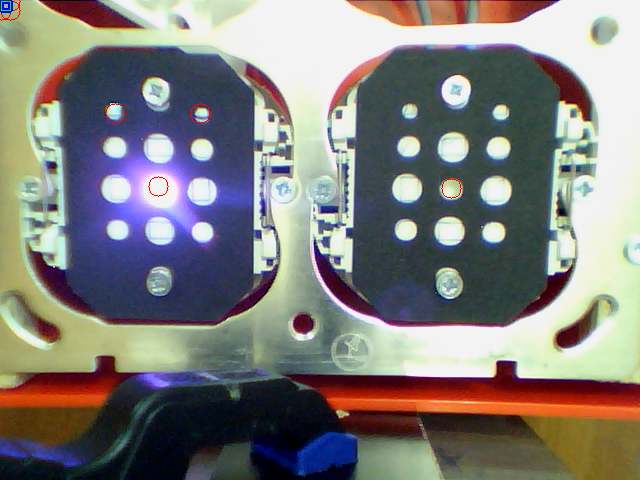
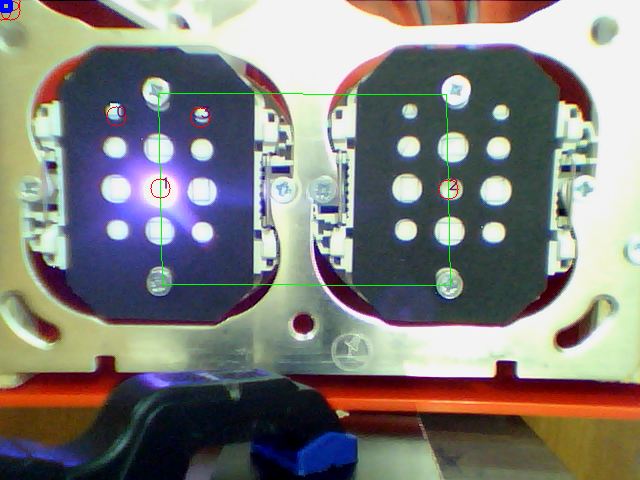
ToDo preperation

diff --git a/PY_Samples/Cam/Get_Cam_Window_V4.py b/PY_Samples/Cam/Get_Cam_Window_V4.py
@@ -11,6 +11,14 @@
 # pip install opencv-python
 # pip install numpy
 #-------------------------------------------------------------------------------
+# TODO (search label)
+# LABEL20220826_00 :  nDimCroshair=10   #LED_TRANS_WORLD[i][3] # size of circles is not scaled
+# LABEL20220826_01 :  Make seperate module for EXPORTING, make test module
+# LABEL20220826_02 :TODO code must be moved to anotiations module
+# LABEL20220826_03 :TODO export to SQLITE
+#
+#-------------------------------------------------------------------------------
+
 def main():
     pass
 
@@ -24,11 +32,14 @@ import sys
 import os
 import datetime
 import schedule
+import subprocess
 
+#--CAX Modules (My modules)
+from selectproject import DialogProjectChoice
 import cam_annotate
 import cam_menu
-import subprocess
-from selectproject import DialogProjectChoice
+import Transformations
+# from module_transformations import transformation # used in Transformations
 ##=============================================================================
 def GetImageDimensions(image):
 
@@ -147,7 +158,8 @@ def job():
     print("=================================================================")
     print("===Schedule Event=====Seconds:" ,nSec)
     print("=================================================================")
-    nDataQue = LED_Export(grey_img,LED_TRANS_WORLD,sPathfile_LED_EXPORT,nDataQue)
+    nDataQue = ExtractPOIs(grey_img,LED_TRANS_WORLD,nDataQue)
+    ExportPOIMeasurements(sPathfile_LED_EXPORT,nDataQue)
     print("=================================================================")
 # run the function job() every 2 seconds
 
@@ -155,9 +167,7 @@ schedule.every(nSec).seconds.do(job)
 
 #===============================================================================
 
-
-
-def LED_Export(img,LED_CAMERA,sPathfile_LED_Export,nDataQueLocal):
+def ExtractPOIs(img,LED_CAMERA,nDataQueLocal):
 
     #get current date and time
     dt = datetime.datetime.now()
@@ -165,8 +175,8 @@ def LED_Export(img,LED_CAMERA,sPathfile_LED_Export,nDataQueLocal):
     dateTimeStr = str(dt)
     sDateTime=dt.strftime('%Y_%m_%d_%H_%M_%S')
     sn_DateTime=dt.strftime('%Y%m%d%H%M%S')
-    sn_YM=dt.strftime('%Y%m')
-    sn_DHMS=dt.strftime('%d%H%M%S')
+    sn_YM=dt.strftime('%Y%m%d')
+    sn_DHMS=dt.strftime('%H%M%S')
     ##-------------------------------------------
     ## time strings convert to integers
     nYear=int(sn_YM)
@@ -242,6 +252,17 @@ def LED_Export(img,LED_CAMERA,sPathfile_LED_Export,nDataQueLocal):
         if len(nDataQueLocal)>len(l_LED_CAMERA)*10: # ensure all LED read not cut off
             nDataQueLocal.pop(-1)  # -1 default
 
+    return nDataQueLocal
+
+# LABEL20220826_01
+def ExportPOIMeasurements(sPathfile_LED_EXPORT,nDataQueLocal):
+    print("===EXPORT==MEASUREMENTS=TO=DELIMITED FILE=====================")
+
+    #get current date and time
+    dt = datetime.datetime.now()
+    #convert date and time to string
+    dateTimeStr = str(dt)
+    sDateTime=dt.strftime('%Y_%m_%d_%H_%M_%S')
 
     file=open(sPathfile_LED_EXPORT,'w')
 
@@ -257,10 +278,9 @@ def LED_Export(img,LED_CAMERA,sPathfile_LED_Export,nDataQueLocal):
             j=j+1
         file.writelines(sLine+'\n')
     file.close()
+
     print("--SAVED TO-------------------------------------------------")
     print(sPathfile_LED_EXPORT)
-
-    return nDataQueLocal
 
 #==============================================================================
 # Global Points
@@ -370,6 +390,8 @@ if image_source==1 :
 if image_source==2 :
     # FILE
     cap = cv2.VideoCapture(sPathfile_VideoSubstituteImage)
+
+
 #------------------------------------------------------------------------------
 # Get Image with  ?filter?
 
@@ -383,6 +405,8 @@ try:
         grey_img = cv2.cvtColor(frame, cv2.IMREAD_COLOR)
 except:
         grey_img = cv2.imread(sPathfile_VideoSubstituteImage)
+
+
 
 #------------------------------------------------------------------------------
 # Get Image dimensions
@@ -414,6 +438,7 @@ while(True):
     grey_img_2 = grey_img.copy()
     grey_img=menu.draw(cv2,grey_img)
 ##=============================================================================
+# LABEL20220826_02
 # TODO code must be moved to anotiations module
 #MountingFrame_CAMERA = [['TL', 358, 352], ['BL', 266, 248], ['BR', 446, 155], ['TR', 410, 114]]  #BGR
     for PTS,i in zip(MountingFrame_CAMERA,[0,1,2,3]):  # zip uses shortes of two lists
@@ -437,9 +462,18 @@ while(True):
             cv2.line(img= grey_img_2, pt1=(int(PTS[1]), int(PTS[2])), pt2=(int(PTS_Start[1]), int(PTS_Start[2])), color=(0, 255, 0), thickness=1, lineType=8, shift=0)
 
     for PTS,i in zip(LED_TRANS_WORLD,range(0,len(LED_TRANS_WORLD))):  # zip uses shortes of two lists
-        nDimCroshair=10   #LED_TRANS_WORLD[i][3]
+        nDimCroshair=10   #LED_TRANS_WORLD[i][3]   #LABEL20220826_00
         nCircle=1
-        cv2.circle(grey_img_2,(int(LED_TRANS_WORLD[i][1]),int(LED_TRANS_WORLD[i][2])), nDimCroshair, (0,0,255),nCircle)
+        CircleX=int(LED_TRANS_WORLD[i][1])
+        CircleY=int(LED_TRANS_WORLD[i][2])
+        cv2.circle(grey_img_2,(CircleX,CircleY), nDimCroshair, (0,0,255),nCircle)
+
+        org=(CircleX-nDimCroshair,CircleY+nDimCroshair) # bottom left of circle
+        color = (100, 0, 100) # Blue color in BGR
+        thickness = 1 # Line thickness of 2 px
+        font = cv2.FONT_HERSHEY_SIMPLEX # font
+        fontScale = 0.5 # fontScale
+        cv2.putText(grey_img_2, str(i), org, font, fontScale, color, thickness, cv2.LINE_AA)
 
 ##=============================================================================
 ##    sCMD=menu.command(cv2,grey_img,Xmenu,Ymenu)  # do not draw image in begin
@@ -561,16 +595,13 @@ while(True):
         print('LED:',LED_TRANS_WORLD[0])
 ##        print('crop:',cX1,cY1, cX2,cY2)
         print('watch Toggle status:', menu.getToggleStatus('watch'))
-
         cam_menu.cam_menu.aCMD[0]="DONE"
 
-
-
     if menu.getToggleStatus('watch')=='1':
-##        print('====LOG IMAGE==============================================')
-##        print('')
+#        print('====LOG IMAGE==============================================')
+#        print('')
         schedule.run_pending()
-##        LED_Export(grey_img,LED_TRANS_WORLD,sPathfile_LED_EXPORT)
+#        LED_Export(grey_img,LED_TRANS_WORLD,sPathfile_LED_EXPORT)
 
 
 
@@ -637,6 +668,7 @@ while(True):
 # IMAGE SHOW
     img_3 = np.concatenate((grey_img, grey_img_2), axis=1)
     cv2.imshow('frame',img_3)
+    cv2.setWindowTitle('frame', sPrefix)
     cv2.setMouseCallback('frame', mousePoints)
 
 ##=============================================================================

diff --git a/PY_Samples/Cam/cam_export_poi.py b/PY_Samples/Cam/cam_export_poi.py
@@ -1,0 +1,123 @@
+#-------------------------------------------------------------------------------
+# Name:        cam_export_poi.py
+# Purpose:
+#
+# Author:      SESA237770
+#
+# Created:     01.07.2022
+# Copyright:   (c) SESA237770 2022
+# Licence:     <your licence>
+#-------------------------------------------------------------------------------
+
+##=============================================================================
+import numpy as np
+import csv
+import os
+import datetime
+##=============================================================================
+def ExportPOIMeasurements(sPathfile_LED_EXPORT,nDataQueLocal):
+    print("===EXPORT==MEASUREMENTS=TO=DELIMITED FILE=====================")
+
+    #get current date and time
+    dt = datetime.datetime.now()
+    #convert date and time to string
+    dateTimeStr = str(dt)
+    sDateTime=dt.strftime('%Y_%m_%d_%H_%M_%S')
+
+    file=open(sPathfile_LED_EXPORT,'w')
+
+    for List_items in nDataQueLocal:
+        sLine=''
+        j=0
+        for integer_items in List_items:
+
+            if j==0:
+                sLine=sDateTime + '\t' + str(integer_items)
+            else:
+                sLine= sLine + '\t' + str(integer_items)
+            j=j+1
+        file.writelines(sLine+'\n')
+    file.close()
+
+    print("--SAVED TO-------------------------------------------------")
+    print(sPathfile_LED_EXPORT)
+##=============================================================================
+##=============================================================================
+##=============================================================================
+def main(sPrefix_in):
+##        user = os.getlogin()
+##        if user=='SESA237770':
+##            sPrefix='MPA\\'
+##        else: sPrefix='OJS\\'
+
+
+        # Choose WORKSPACE"
+        sPrefix=sPrefix_in
+
+
+        print('')
+        print('==============================================================')
+        print('=============')
+        print('=============')
+        print('==============================================================')
+        print('')
+
+
+
+##=============================================================================
+##=============================================================================
+
+if __name__ == '__main__':
+
+    sPathfile_LED_EXPORT='garbage\\export.dat'
+
+    lData=[[3, 20220826, 94902, 186, 147, 131],
+             [2, 20220826, 94902, 243, 243, 243],
+             [1, 20220826, 94902, 247, 233, 244],
+             [0, 20220826, 94902, 132, 124, 121],
+             [3, 20220826, 94857, 186, 147, 131],
+             [2, 20220826, 94857, 243, 243, 243],
+             [1, 20220826, 94857, 247, 233, 244],
+             [0, 20220826, 94857, 132, 124, 121],
+             [3, 20220826, 94852, 186, 147, 131],
+             [2, 20220826, 94852, 243, 243, 243],
+             [1, 20220826, 94852, 247, 233, 244],
+             [0, 20220826, 94852, 132, 124, 121],
+             [3, 20220826, 94847, 186, 147, 131],
+             [2, 20220826, 94847, 243, 243, 243],
+             [1, 20220826, 94847, 247, 233, 244],
+             [0, 20220826, 94847, 132, 124, 121],
+             [3, 20220826, 94842, 186, 147, 131],
+             [2, 20220826, 94842, 243, 243, 243],
+             [1, 20220826, 94842, 247, 233, 244],
+             [0, 20220826, 94842, 132, 124, 121],
+             [3, 20220826, 94837, 186, 147, 131],
+             [2, 20220826, 94837, 243, 243, 243],
+             [1, 20220826, 94837, 247, 233, 244],
+             [0, 20220826, 94837, 132, 124, 121],
+             [3, 20220826, 94832, 186, 147, 131],
+             [2, 20220826, 94832, 243, 243, 243],
+             [1, 20220826, 94832, 247, 233, 244],
+             [0, 20220826, 94832, 132, 124, 121],
+             [0, 0, 0, 0, 0, 0],
+             [0, 0, 0, 0, 0, 0],
+             [0, 0, 0, 0, 0, 0]]
+
+
+
+
+    print('')
+    print('==============================================================')
+    print('====TEST THE PROGRAM =======================')
+    print('==============================================================')
+    print('')
+
+    sPrefix='workspace_1X2'+'\\'
+    sPrefix='MPA\\'
+
+##    main(sPrefix)
+
+    ExportPOIMeasurements(sPathfile_LED_EXPORT,lData)
+
+    print('')
+    print('==============================================================')

diff --git a/PY_Samples/Cam/Transformations.py b/PY_Samples/Cam/Transformations.py
@@ -13,6 +13,7 @@
 import numpy as np
 import csv
 import os
+#--CAX Modules (My modules)
 from module_transformations import transformation
 ##=============================================================================
 def ExportMountingFrame(sPathFile,DataPoints):
